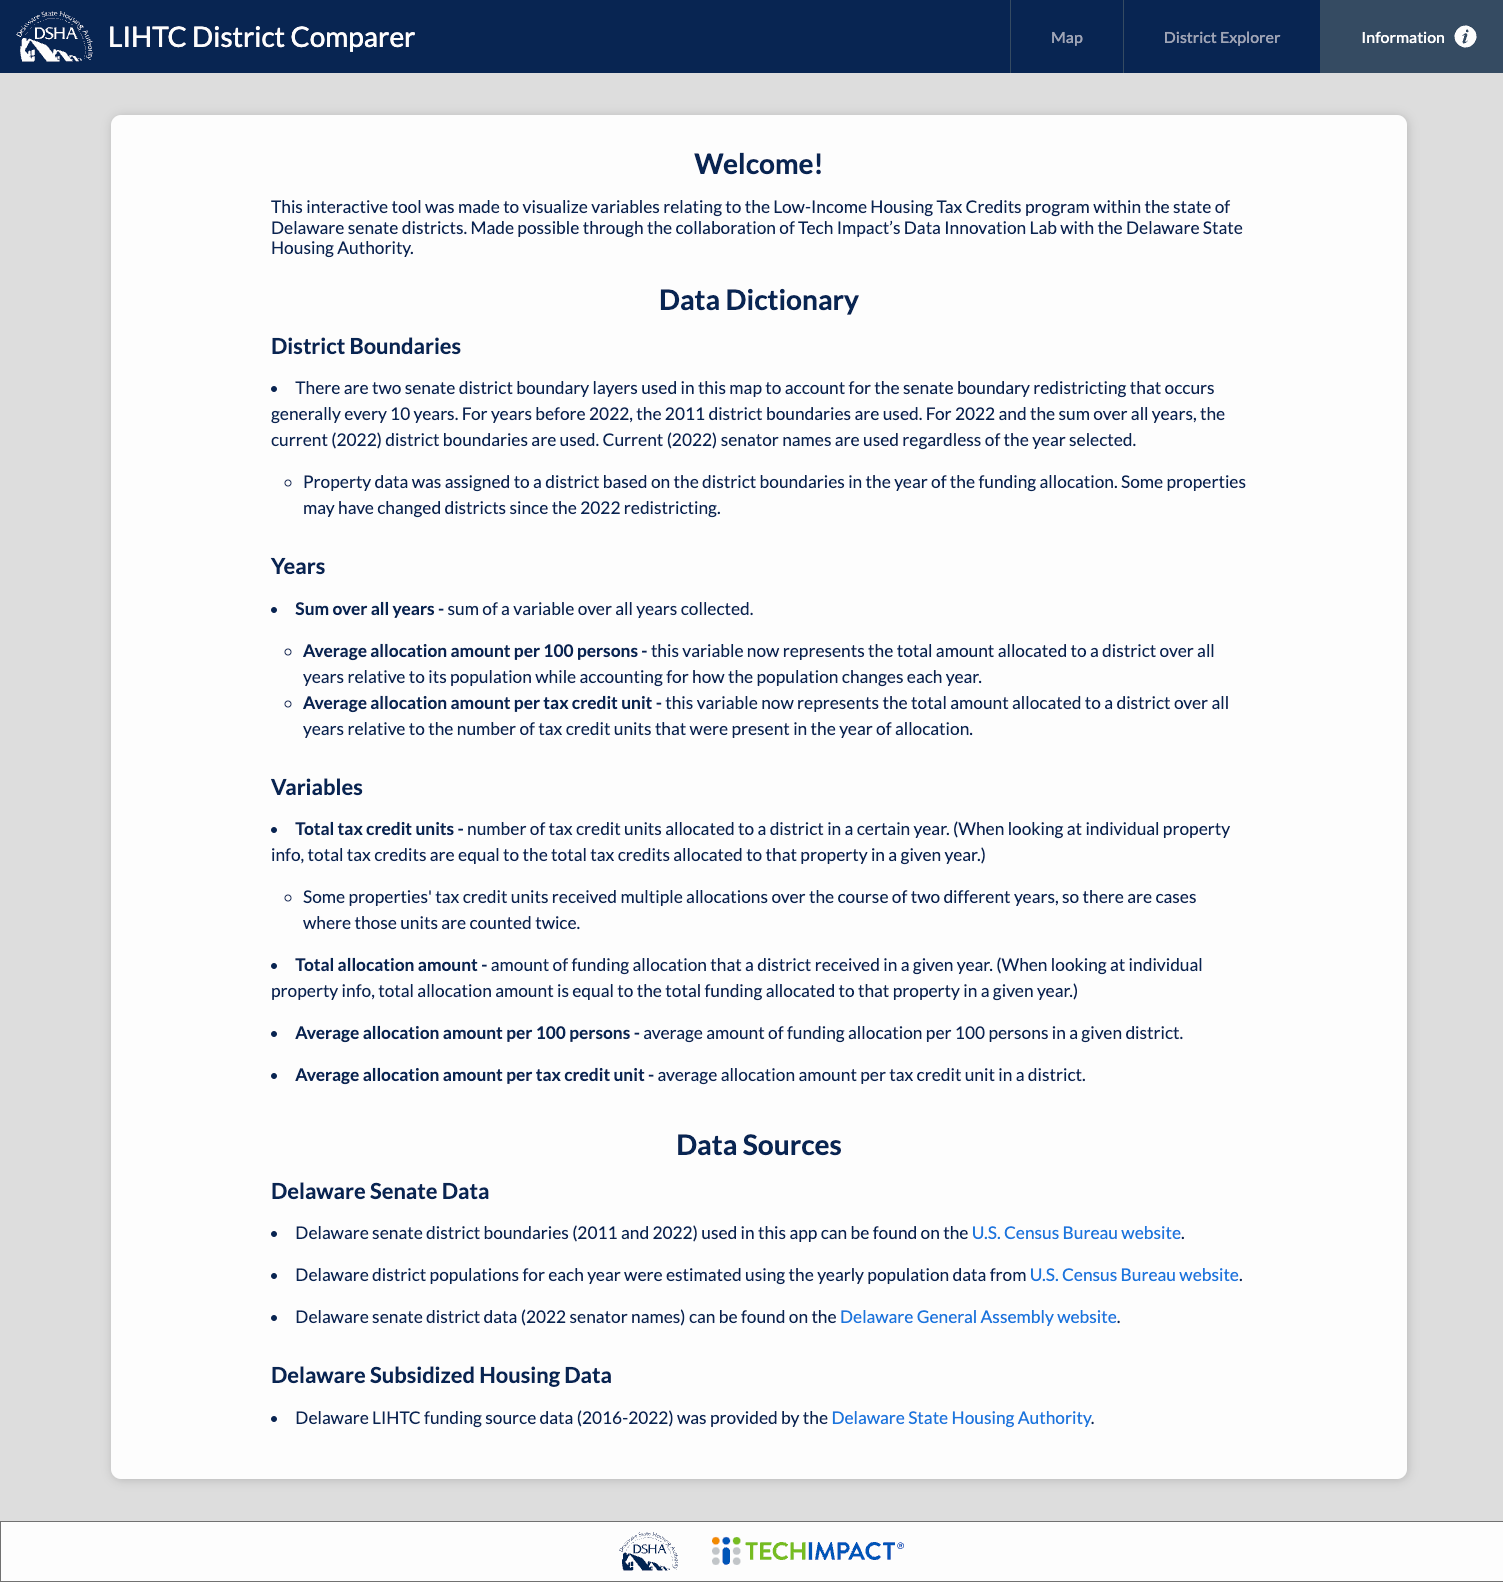
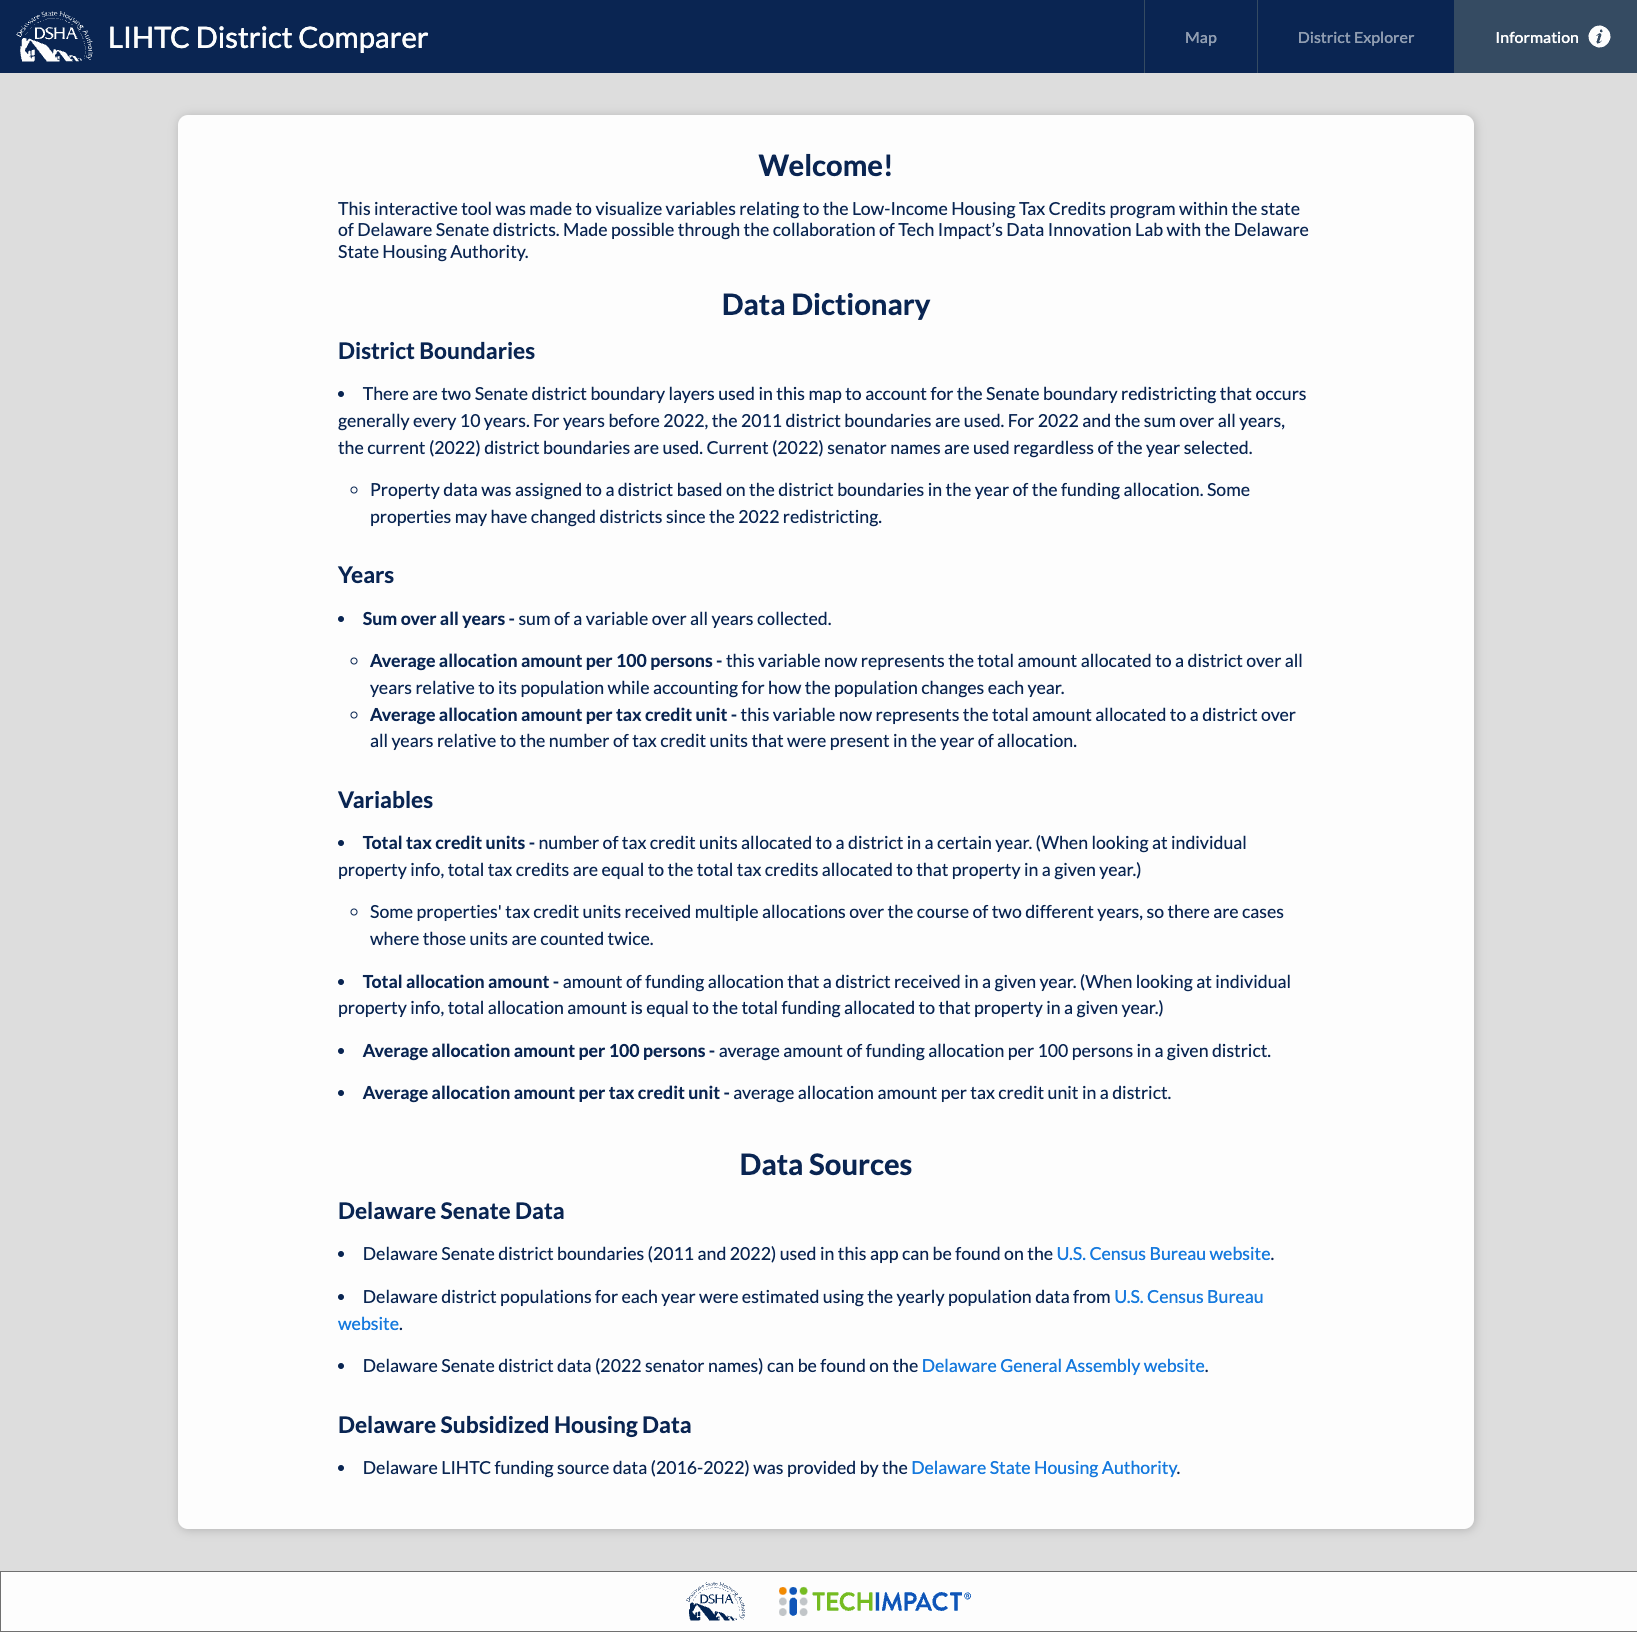
minor changes to info page, corresponding changes edited in README and new screenshot added

diff --git a/src/pages/Info.jsx b/src/pages/Info.jsx
@@ -4,7 +4,7 @@ import "./Info.css";
 export const Info = () => {
   return (
     <div className="container">
-      <div className="info-container container-margin">
+      <div className="info-container">
         <h2 className="information-header">Welcome!</h2>
         <h3 className="information-text">
           This interactive tool was made to visualize variables relating to the
@@ -94,14 +94,14 @@ export const Info = () => {
               .
             </li>
             <li className="information-text">
-              Delaware district populations for each year were estimated using the yearly population data from{" "}
+              Delaware district populations for each year were estimated using the 5-year "period" estimates from the {" "}
               <Link
                 className="information-link"
                 to="https://www.census.gov/data/developers/data-sets/acs-5year.html"
                 target="_blank"
                 rel="noreferrer noopener"
               >
-                U.S. Census Bureau website
+                American Community Survey
               </Link>
               .
             </li>

diff --git a/README.md b/README.md
@@ -14,23 +14,28 @@ This app was developed for the Delaware State Housing Authority and state of Del
 
 ### Delaware Senate Data
 - Delaware senate district boundaries (2011 and 2022) used in this app can be found on the [U.S. Census Bureau website](https://www2.census.gov/geo/tiger/GENZ2022).
-- Delaware district populations for each year were estimated using the yearly population data from [U.S. Census Bureau website](https://www2.census.gov/geo/tiger/GENZ2022).
+- Delaware district populations for each year were estimated using the 5-year "period" estimates from the [American Community Survey](https://www.census.gov/data/developers/data-sets/acs-5year.html).
 - Delaware senate district data (2022 senator names) can be found on the [Delaware General Assembly website](https://legis.delaware.gov/Redistricting/2022FinalSenateDistricts).
 
 ### Delaware Subsidized Housing Data
 - Delaware LIHTC funding source data (2016-2022) was provided by the [Delaware State Housing Authority](http://www.destatehousing.com).
 
 ## Screenshots
-![Map view](public/images/screenshot-1.png)
+<img src="public/images/screenshot-1.png" alt="Map view" width="640" height="320">
+<img src="public/images/screenshot-2.png" alt="Map view - with hover and click" width="640" height="320">
+<img src="public/images/screenshot-3.png" alt="District explorer - compare districts" width="640" height="320">
+<img src="public/images/screenshot-4.png" alt="District explorer - explore your district" width="640" height="320">
+<img src="public/images/screenshot-5.png" alt="Info Page" width="640" height="320">
+<!-- ![Map view](public/images/screenshot-1.png)
 ![Map view - with hover and click](public/images/screenshot-2.png)
 ![District explorer - compare districts](public/images/screenshot-3.png)
 ![District explorer - explore your district](public/images/screenshot-4.png)
-![Info Page](public/images/screenshot-5.png)
+![Info Page](public/images/screenshot-5.png) -->
 
 ## Badges
 ![React-Badge](https://img.shields.io/badge/Code-React-blue)
 ![Javascript-Badge](https://img.shields.io/badge/Code-JavaScript-blue)
-![Javascript-Badge](https://img.shields.io/badge/Code-Python-blue)
+![Python-Badge](https://img.shields.io/badge/Code-Python-blue)
 ![Typescript-Badge](https://img.shields.io/badge/Code-TypeScript-blue)
 ![HTML-Badge](https://img.shields.io/badge/Code-HTML-blue)
 ![CSS-Badge](https://img.shields.io/badge/Code-CSS-blue)
